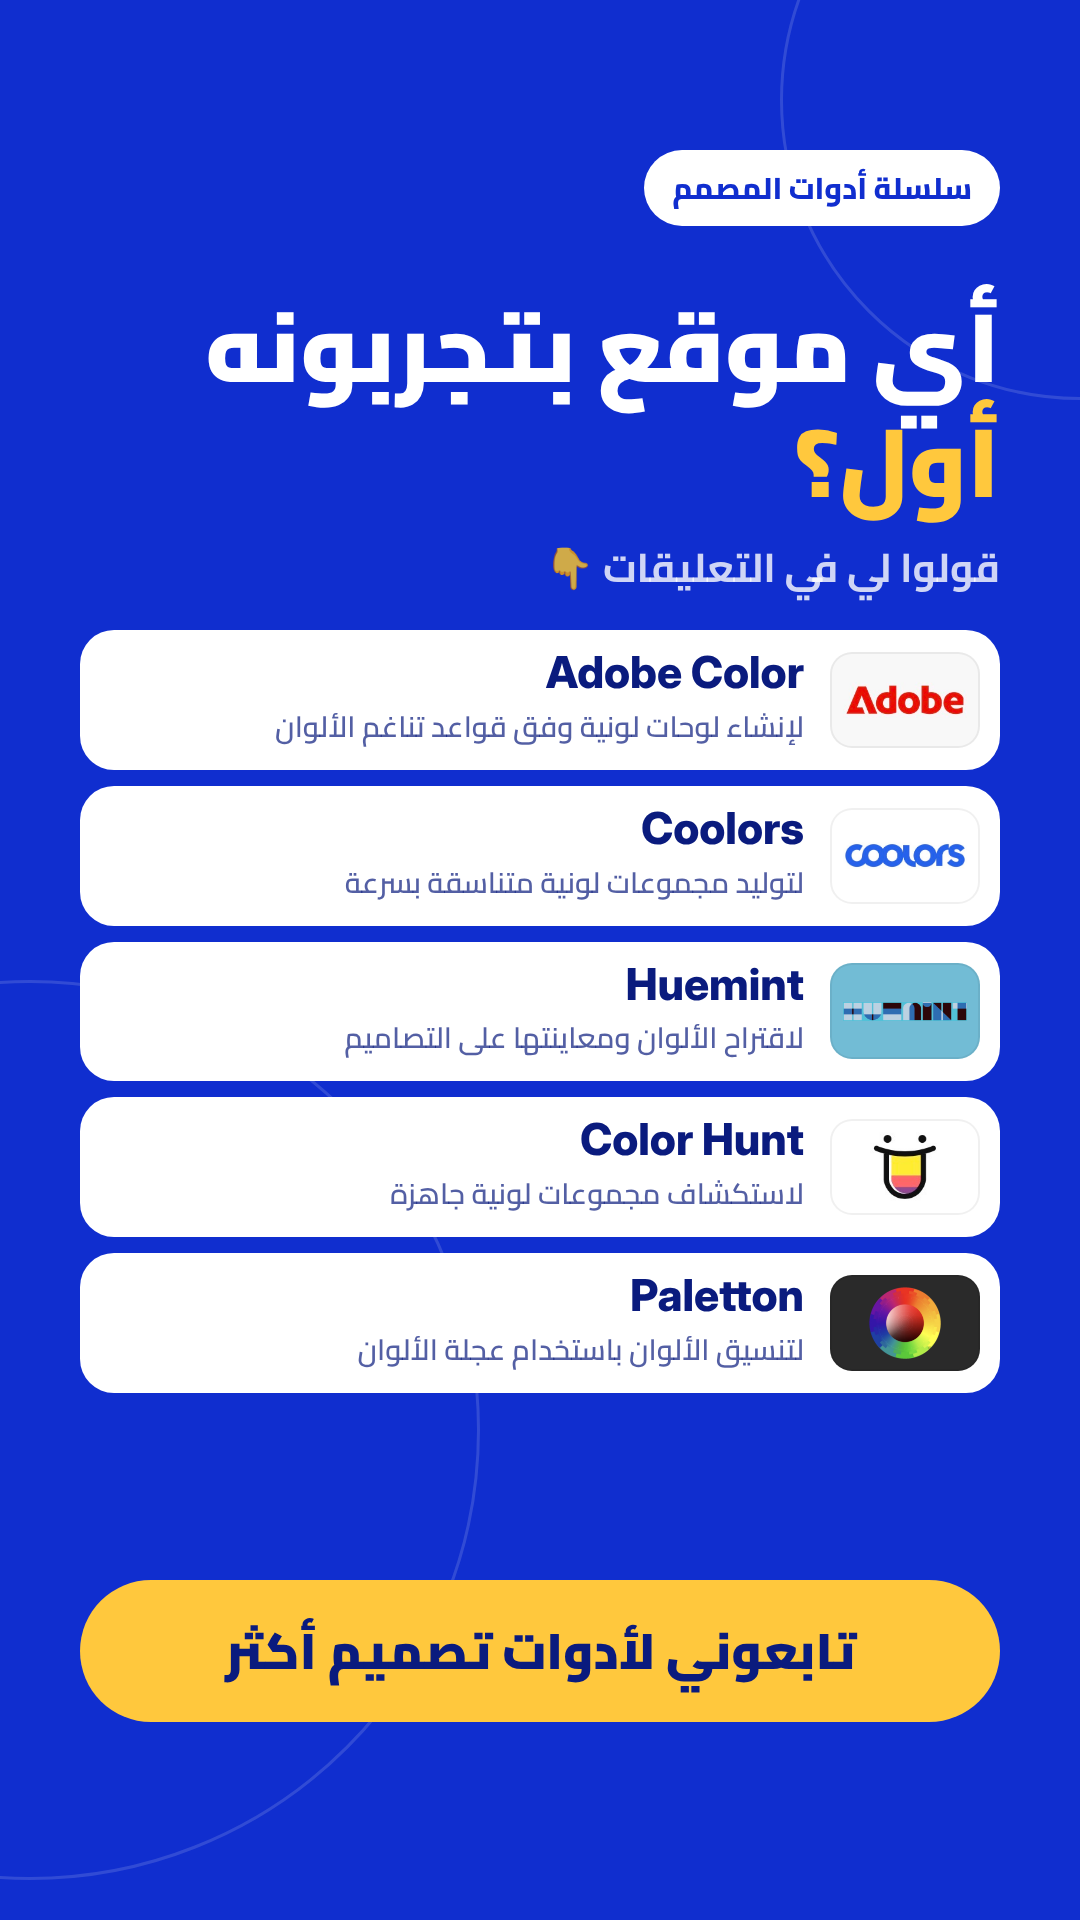
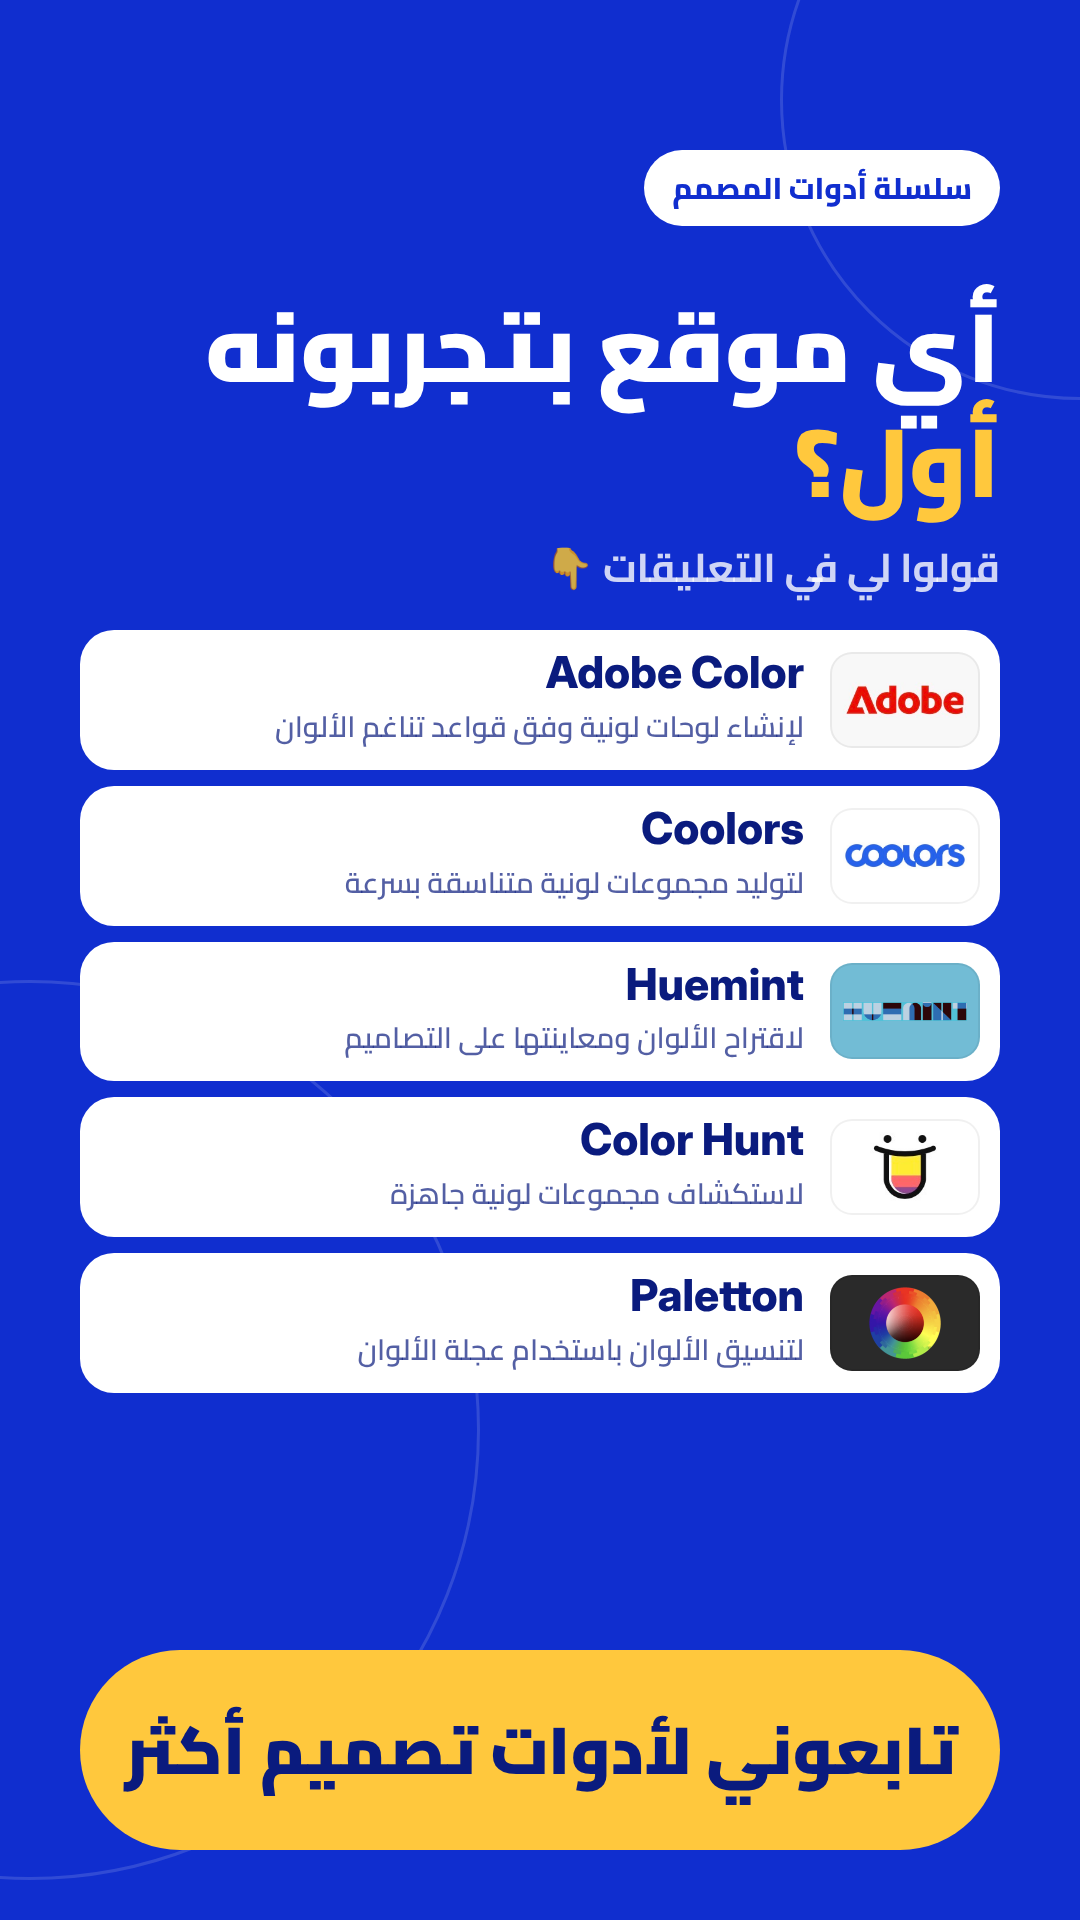
Brand outro: move the follow button lower and make it larger
Claude-Session: https://claude.ai/code/session_01HmuEa21xmTYJVbHUyErKJW

Changed region(s): [[0.0611, 0.8125, 0.9472, 0.9688]]

diff --git a/tiktok-color-tools/slides-brand/06-outro.html b/tiktok-color-tools/slides-brand/06-outro.html
@@ -20,8 +20,8 @@ h2 span { color:#FFC83D; }
 .tx { display:flex; flex-direction:column; }
 .nm { font-size:44px; font-weight:800; text-align:right; line-height:1.2; }
 .w { font-size:29px; font-weight:600; color:rgba(10,27,126,.7); }
-.cta { position:absolute; top:1580px; right:80px; left:80px; text-align:center; font-size:50px; font-weight:900; background:#FFC83D;
-  color:#0A1B7E; border-radius:999px; padding:24px; }
+.cta { position:absolute; top:1650px; right:80px; left:80px; text-align:center; font-size:66px; font-weight:900; background:#FFC83D;
+  color:#0A1B7E; border-radius:999px; padding:38px 24px; }
 </style></head><body>
 <div class="ring" style="width:900px;height:900px;left:-420px;top:980px"></div><div class="ring" style="width:600px;height:600px;right:-300px;top:-200px"></div>
 <span class="tag">سلسلة أدوات المصمم</span>

diff --git a/tiktok-color-tools/build_brand.py b/tiktok-color-tools/build_brand.py
@@ -103,8 +103,8 @@ h2 span {{ color:{SUN}; }}
 .tx {{ display:flex; flex-direction:column; }}
 .nm {{ font-size:44px; font-weight:800; text-align:right; line-height:1.2; }}
 .w {{ font-size:29px; font-weight:600; color:rgba(10,27,126,.7); }}
-.cta {{ position:absolute; top:1580px; right:80px; left:80px; text-align:center; font-size:50px; font-weight:900; background:{SUN};
-  color:{NAVY}; border-radius:999px; padding:24px; }}
+.cta {{ position:absolute; top:1650px; right:80px; left:80px; text-align:center; font-size:66px; font-weight:900; background:{SUN};
+  color:{NAVY}; border-radius:999px; padding:38px 24px; }}
 </style></head><body>
 {RINGS}
 <span class="tag">سلسلة أدوات المصمم</span>
